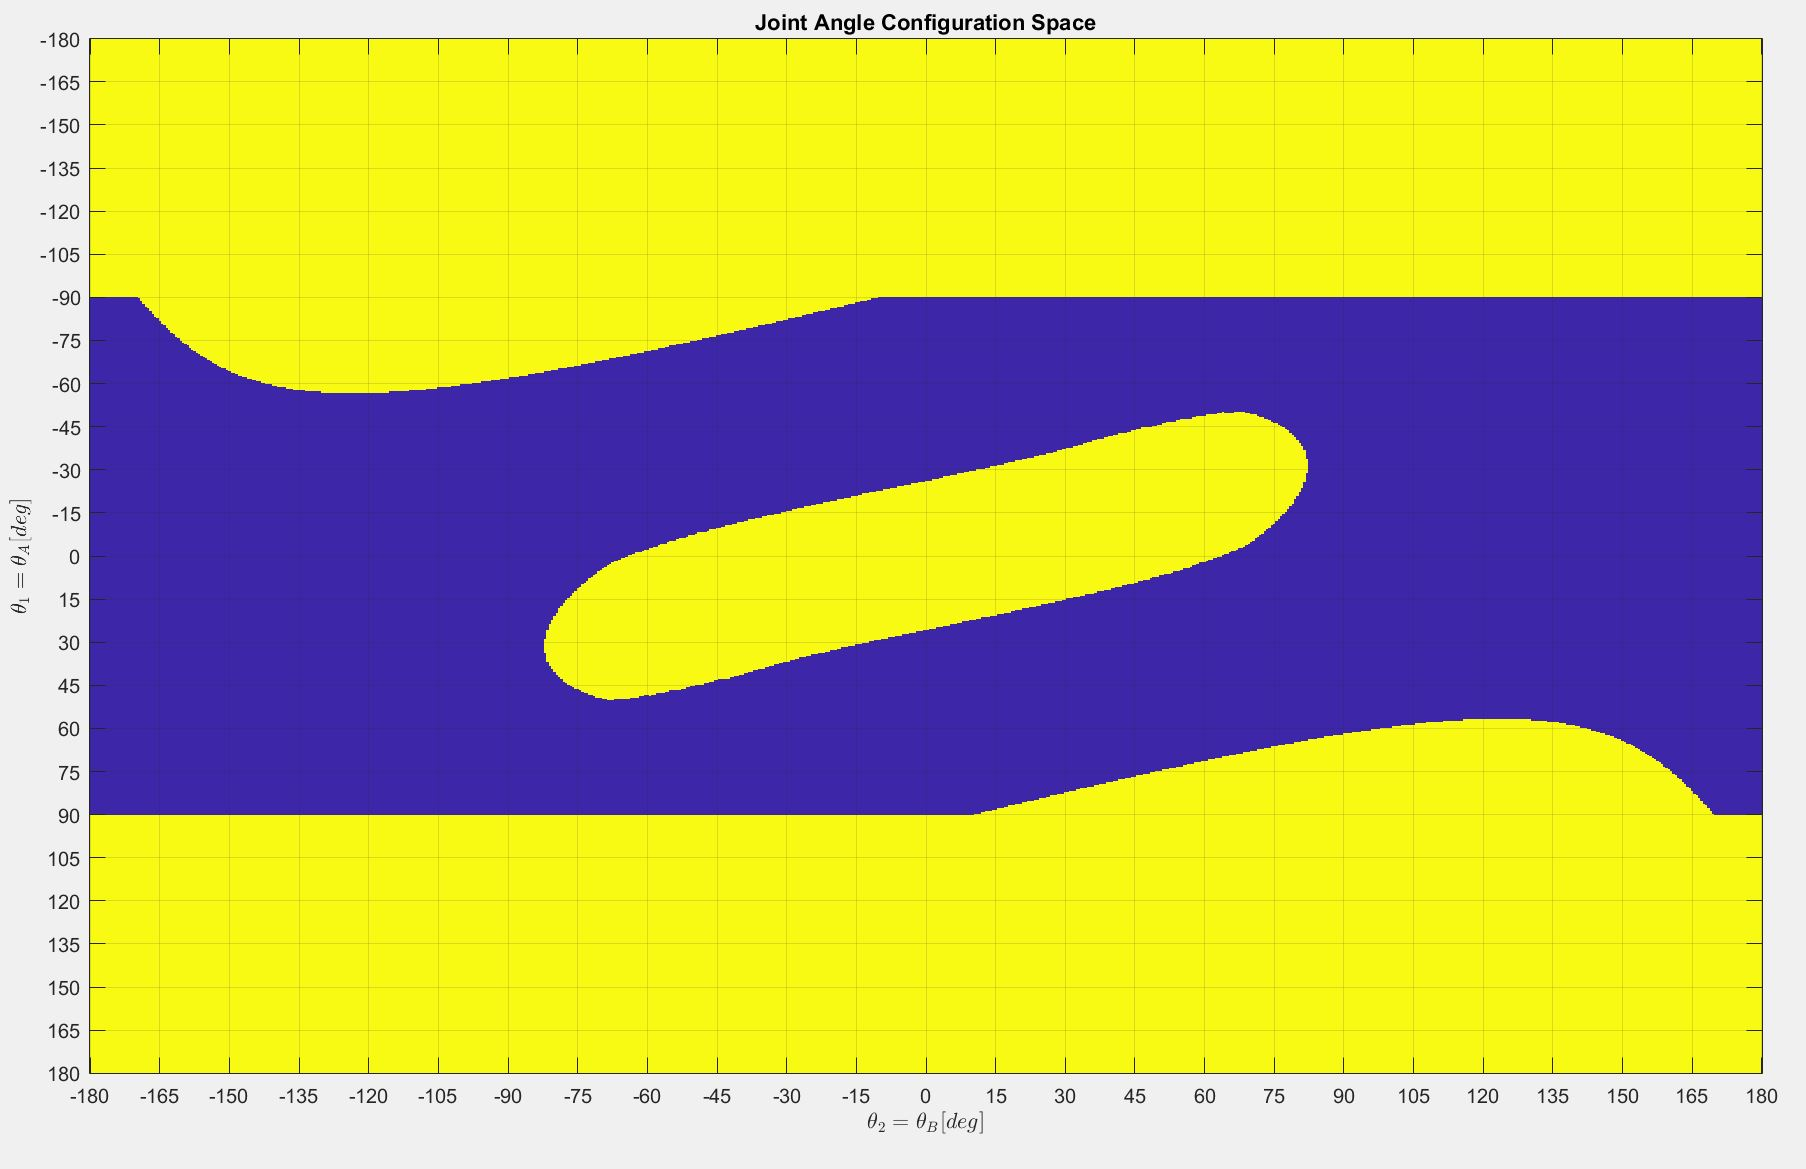
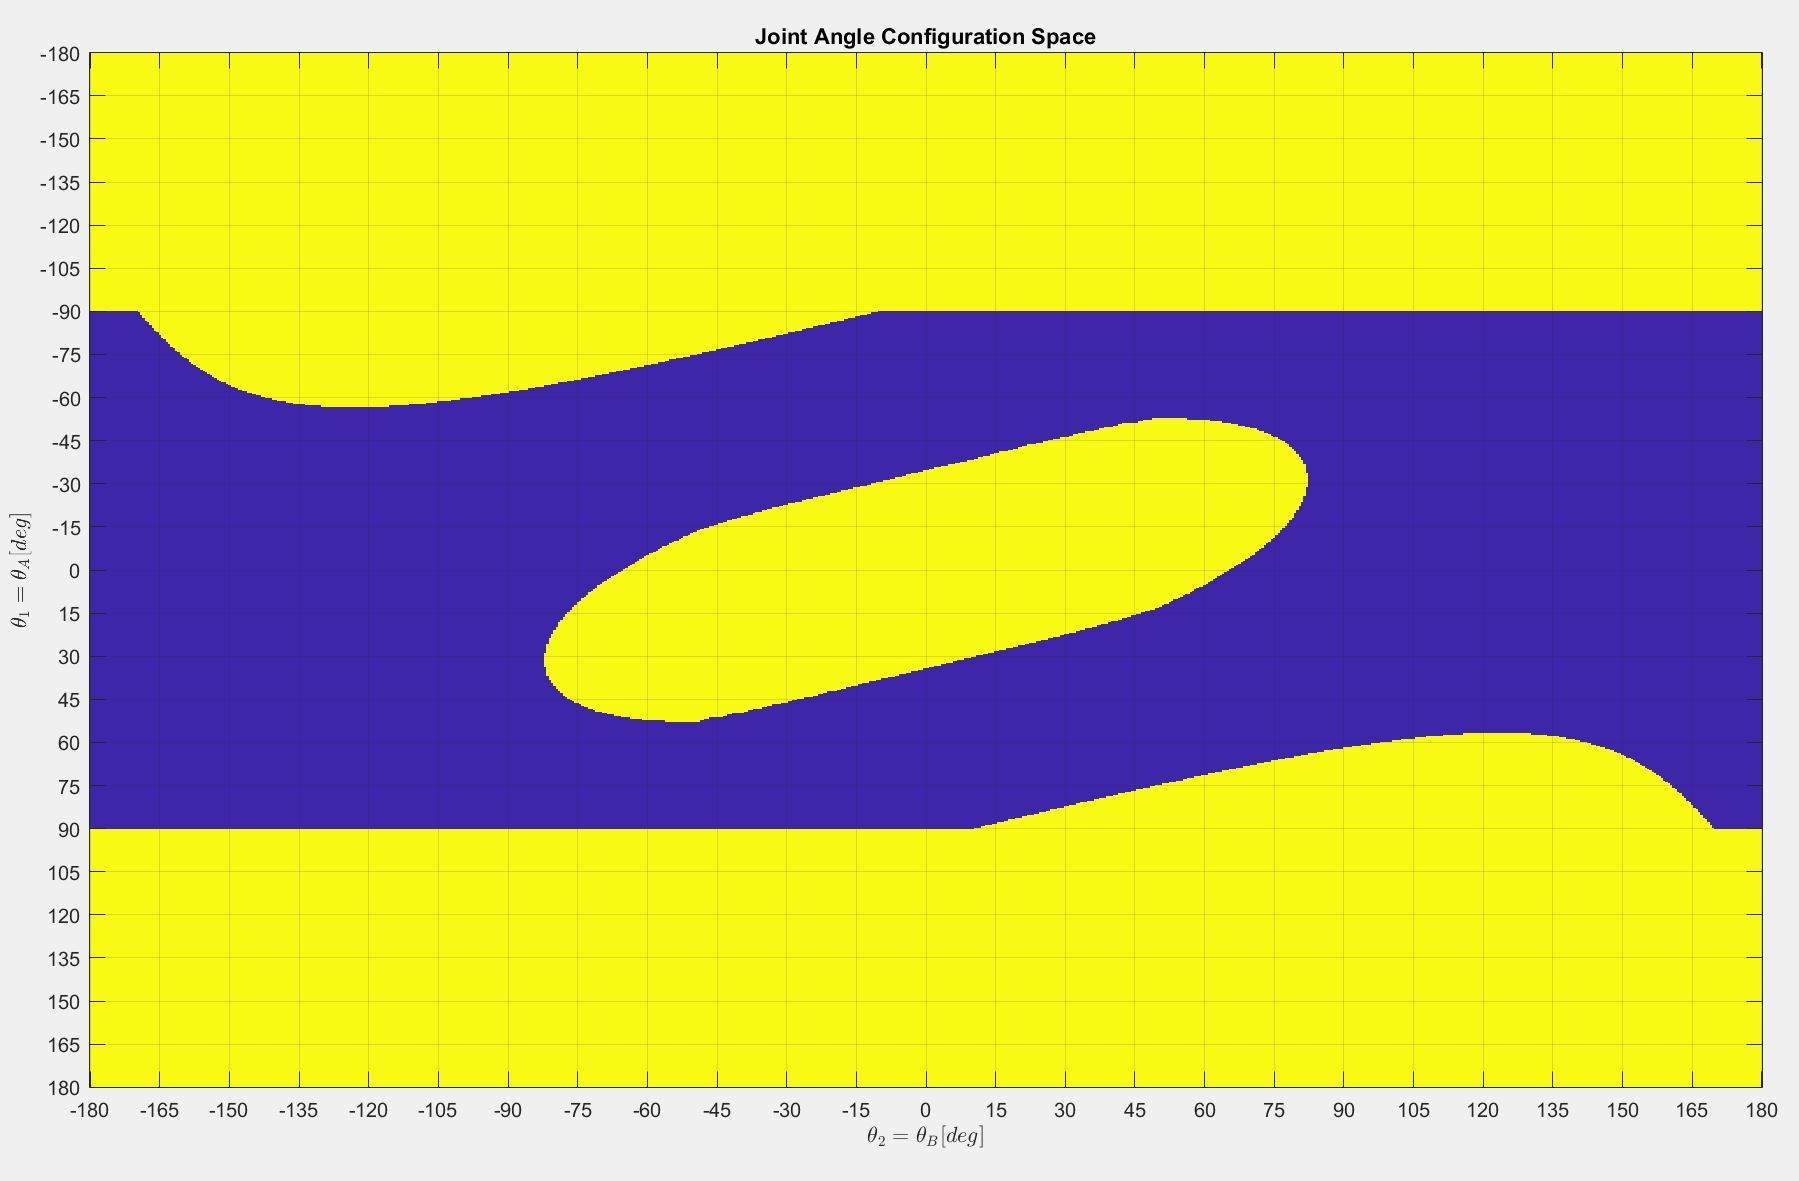
Kinematics Online

diff --git a/Labs/Lab9/main.c b/Labs/Lab9/main.c
@@ -44,7 +44,7 @@ float vrm[][] = {
 {1,1},
 };
 // Connectivity (Adjacency) Matrix of Roadmap Vertices (down is from, across is to):
-bool MC[][] = {
+int MC[][] = {
   {1,1,0,0,0,0,0,0,0,0,0,0,0,0,0,0},
   {1,1,1,0,0,0,0,0,0,0,0,0,0,0,0,0},
   {0,1,1,1,0,0,0,0,0,0,0,0,0,0,1,0},
@@ -61,23 +61,23 @@ bool MC[][] = {
   {0,0,0,0,0,0,0,0,0,0,0,0,1,1,1,0},
   {0,0,1,0,0,0,0,0,0,0,0,0,0,1,1,1},
   {0,0,0,0,0,0,0,0,0,0,0,0,0,0,1,1},
-}
+};
 
 #define sq(a) ((a)*(a))
 
 // Returns the Index of the Roadmap Vertex Closest to the Given Position (ta,tb)
 int findNearestVertex(float ta, float tb){
   int closest = 0; // Index of Closest Index
-  float dist = Inf;
+  float dist = 10^80;
 
   // Loop through Every Vertex, If Connected to Vertex idx, Check if Closer.
   for(int i=0; i<NUM_VERTICES; i++){
-    d = sqrt(sq(vrm[i][0] - ta) + sq(vrm[i][1] - tb));
+    float d = sqrt(sq(vrm[i][0] - ta) + sq(vrm[i][1] - tb));
     dist = (d<dist) ? d : dist;
     closest = i;
   }
 
- return i;
+ return closest;
 } // #findNearestVertex
 
 // Returns the Index of the Roadmap Vertex Adjacent to the Given Vertex with
@@ -89,13 +89,13 @@ int findBestAdjacentVertex(int idx, float ta, float tb){
   // Loop through Every Vertex, If Connected to Vertex idx, Check if Closer.
   for(int i=0; i<NUM_VERTICES; i++){
     if(MC[idx][i]){
-      d = sqrt(sq(vrm[i][0] - ta) + sq(vrm[i][1] - tb));
+      float d = sqrt(sq(vrm[i][0] - ta) + sq(vrm[i][1] - tb));
       dist = (d<dist) ? d : dist;
       closest = idx;
     }
   }
 
- return i;
+ return closest;
 } // #findBestAdjacentVertex
 
 // Simple (quick) Depth First Search of Roadmap Vertices for Path from the
@@ -145,31 +145,13 @@ int* DFS(int is, int it){
   } // loop: path
 
   if(no_path){
-    path[0] = -1 // Indicate No Path was Found
+    path[0] = -1; // Indicate No Path was Found
   }
 
   return path;
 } // #DFS
 
 /**** -- KINEMATICS -- ****/
-
-float atan2(float y, float x){ // Result in radians.
-  float th;
-  if(x>0){
-    th = atan(y/x);
-  } else if(x<0 && y>=0){
-    th = atan(y/x) + PI;
-  } else if(x<0 && y<0){
-    th = atan(y/x) - PI;
-  } else if(x==0 && y>0){
-    th = PI/2.0;
-  } else if(x==0 && y<0){
-    th = -PI/2.0;
-  } else{ // x=0, y=0
-    th = 0;
-  }
- return th;
-}
 
 #define sgn(x) ((x) / abs(x))
 
@@ -186,38 +168,67 @@ float* computeIK(float x, float y){
   cfg[0] = atan2(y,x) - asin( (L2 * sin(cfg[1])) / sqrt(sq(x) + sq(y)) ) - PI/2.0;
   cfg[0] = cfg[0] * 180.0 / PI; // Convert to Deg.
   cfg[1] = cfg[1] * 180.0 / PI;
+
+ return cfg;
 } // #computeIK
 
 float init_pos_TH[] = {-90.0, 0.0};
 
+//Ratio of Teeth on Axis of a Joint to that of the Motor.
+#define GEAR_RATIO 5
+
 // Returns the Estimated Angle of Joint A
 float JointAngleA(){
-  nMotorEncoder[JointA] + init_pos_TH[0];
+  return nMotorEncoder[JointA] / GEAR_RATIO + init_pos_TH[0];
 } // #JointAngleA
 // Returns the Estimated Angle of Joint A
 float JointAngleB(){
-  nMotorEncoder[JointB] + init_pos_TH[1];
+  return nMotorEncoder[JointB] / GEAR_RATIO + init_pos_TH[1];
 } // #JointAngleB
 
 // Target Net Translation Speed through ThetaA-ThetaB Space:
-#define TRANSLATION_SPEED 20.0
-#define Kp 1.0
+#define TRANSLATION_SPEED (10.0 * GEAR_RATIO)
+#define Kp 0.01
 // Go To the Given Arm Position / Configuration in ThetaA-ThetaB Space.
 void goTo_ang(float tha, float thb){
-  errA = abs(tha - JointAngleA());
-  errB = abs(thb - JointAngleB());
+  static float enca, encb, errA, errB, sea0, seb0;
+  enca = tha * GEAR_RATIO;
+  encb = ((tha-init_pos_TH[0]) + thb) * GEAR_RATIO; // <- requirement of belt-drive (as opposed to direct)
 
-  eps = 1.25; // Allowable Angle Tolerance (resolution of motor)
-  while(errA > eps && errB > eps){
-    errA = tha - JointAngleA();
-    errB = thb - JointAngleB();
+  errA = enca - JointAngleA() * GEAR_RATIO;
+  sea0 = sgn(errA); // Original Sign of Error
+  errB = encb - JointAngleB() * GEAR_RATIO;
+  seb0 = sgn(errB); // Original Sign of Error
+
+
+  while(sgn(errA)*sea0 == 1 || sgn(errB)*seb0 == 1){
+    errA = enca - JointAngleA() * GEAR_RATIO;
+    errB = encb - JointAngleB() * GEAR_RATIO;
+    float spd = TRANSLATION_SPEED;
+
+    float phi = atan2(encb, enca); // Direction of Travel through ThetaA-ThetaB Space
+    motor[JointA] = ((float) spd * sgn(errA));
+    motor[JointB] = ((float) spd * sgn(errB));
+
+    if(sgn(errA)*sea0 != 1){
+      motor[JointA] = 0; // stop
+    }
+    if(sgn(errB)*seb0 != 1){
+      motor[JointB] = 0;
+    }
+  }
+    /*
+  float eps = 1.25; // Allowable Angle Tolerance (resolution of motor)
+  while(abs(errA) > eps || abs(errB) > eps){
+    errA = enca - JointAngleA();
+    errB = encb - JointAngleB();
     float err = sqrt( sq(errA) + sq(errB) );
     float spd = TRANSLATION_SPEED * Kp * err;
 
-    float phi = atan2(tha, thb); // Direction of Travel through ThetaA-ThetaB Space
-    motor[JointA] = ((float) spd * sin(phi) * sgn(errA));
-    motor[JointB] = ((float) spd * cos(phi) * sgn(errB));
-  }
+    float phi = atan2(enca, encb); // Direction of Travel through ThetaA-ThetaB Space
+    motor[JointA] = ((float) spd * sgn(errA));
+    motor[JointB] = ((float) spd * sgn(errB));
+  }*/
 
   motor[JointA] = 0; // stop
   motor[JointB] = 0;
@@ -234,12 +245,17 @@ void init(){
   nMaxRegulatedSpeedNxt = 700;
   nPidUpdateInterval = 2;
 
+  bMotorReflected[JointA] = false;
+  bMotorReflected[JointB] = false;
+
   motor[JointA] = 0;
   motor[JointB] = 0;
 
   nMotorEncoder[JointA] = 0;
   nMotorEncoder[JointB] = 0;
 } // #init
+
+float TA, TB;
 
 task main(){
 
@@ -248,11 +264,15 @@ task main(){
   for(int i=0; i<NUM_TARGETS; i++){
     // Get Target:
     float* targ_AB = computeIK(targs[i][0], targs[i][1]); // Target Position in ThA-ThB Space
+    TA = targ_AB[0]; TB = targ_AB[1];
 
     // Get Nodes for Path through Roadmap:
     int is = findNearestVertex(JointAngleA(), JointAngleB());
     int it = findNearestVertex(targ_AB[0], targ_AB[1]);
 
+    goTo_ang(TA, TB);
+    wait1Msec(1800);
+    /*
     // Find Path Through Roadmap
     int* path = DFS(is,it);
 
@@ -267,5 +287,6 @@ task main(){
       }
       goTo_ang(targ_AB[0], targ_AB[1]);
     } // path[0]?
+    */
   } // loop: targets
 } // #main

diff --git a/Labs/Lab9/ConfigurationSpacePlanner.m b/Labs/Lab9/ConfigurationSpacePlanner.m
@@ -44,7 +44,7 @@ function drawRect(x1,y1,x2,y2)
     WS_XY( XY_mid+ceil(ya/res_xy):XY_mid+ceil(yb/res_xy), XY_mid+ceil(xa/res_xy):XY_mid+ceil(xb/res_xy) ) = 1;
 end
 
-drawRect(-2*25.4, -8*25.4, 2*25.4, -5.5*25.4);
+drawRect(-3*25.4, -8*25.4, 3*25.4, -5.5*25.4);
 
 % Add Boundaries:
 drawRect(-box_width/2,-box_width/2, -7*25.4,box_width/2);
